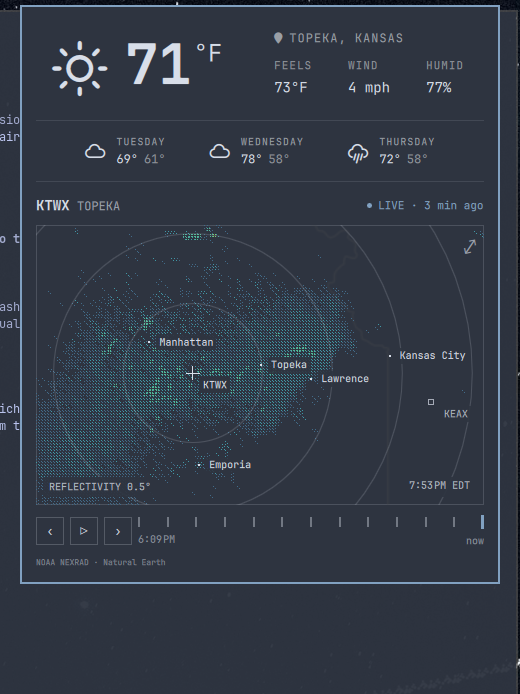
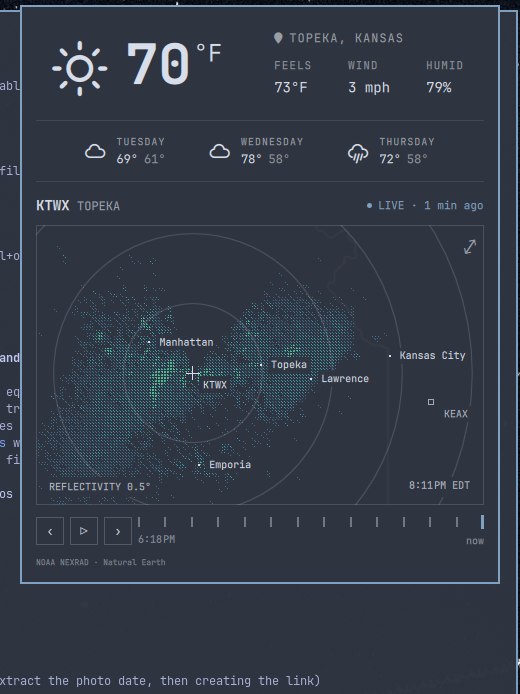
Two-way location sync between weather and radar; privacy-safe Topeka preview

diff --git a/RadarSection.qml b/RadarSection.qml
@@ -1,4 +1,5 @@
 import QtQuick
+import Quickshell
 import "../com.omastorm.radar/ui"
 
 // Skywatch radar section.
@@ -7,6 +8,15 @@ import "../com.omastorm.radar/ui"
 // shared PluginSession singleton so the weather panel and Omastorm share one
 // engine connection, config, and remembered view. See README.md for credits
 // and the required Omastorm install (https://github.com/wesleygrimes/omastorm).
+//
+// Location sync (two-way, weather.json is the shared source of truth):
+//   - Weather -> radar: when the weather location changes, the radar moves
+//     to that place (PluginSession.setPlace).
+//   - Radar -> weather: when the user picks a place on the radar (search,
+//     site picker, "my location"), the chosen place is written back to
+//     weather.json so the forecast follows.
+// A syncingFromWeather guard plus a deferred read (Qt.callLater) prevent echo
+// loops and the transient where setPlace updates placeName before center.
 
 Item {
   id: root
@@ -15,6 +25,49 @@ Item {
 
   width: parent ? parent.width : 0
   implicitHeight: radar.implicitHeight
+
+  property bool syncingFromWeather: false
+
+  // ---- weather -> radar ---------------------------------------------------
+  Connections {
+    target: PluginSession.config
+    function onLocationChanged() {
+      if (root.syncingFromWeather) return
+      var loc = PluginSession.config.location
+      if (!loc || !PluginSession.initialized || !PluginSession.hasView) return
+      // Already centered there? Don't fight panning.
+      if (Math.abs(PluginSession.centerLat - loc.lat) < 1e-6
+          && Math.abs(PluginSession.centerLon - loc.lon) < 1e-6) return
+      root.syncingFromWeather = true
+      PluginSession.setPlace(loc.lat, loc.lon, loc.name || "")
+      root.syncingFromWeather = false
+    }
+  }
+
+  // ---- radar -> weather ---------------------------------------------------
+  // placeName only changes on an explicit pick (search, site picker, locate);
+  // panning updates center/span without touching placeName, so it stays out.
+  // setPlace sets placeName before center, so read the center on the next
+  // tick after the change settles.
+  Connections {
+    target: PluginSession
+    function onPlaceNameChanged() {
+      if (root.syncingFromWeather) return
+      Qt.callLater(root.writeBackToWeather)
+    }
+  }
+
+  function writeBackToWeather() {
+    var name = PluginSession.placeName
+    if (!name || !PluginSession.hasView) return
+    var lat = PluginSession.centerLat
+    var lon = PluginSession.centerLon
+    if (!isFinite(lat) || !isFinite(lon)) return
+    // Already the weather location? Nothing to write back.
+    var wl = PluginSession.config.location
+    if (wl && Math.abs(wl.lat - lat) < 1e-6 && Math.abs(wl.lon - lon) < 1e-6) return
+    Quickshell.execDetached(["omarchy-weather-location", "--set", name, String(lat) + "," + String(lon)])
+  }
 
   Popover {
     id: radar

diff --git a/README.md b/README.md
@@ -41,6 +41,19 @@ The Omastorm engine binary downloads itself on first radar open (see the
 - Refresh interval configurable (default 15 min) via the weather widget
   settings; middle-click refreshes now
 
+### Location sync
+
+The weather panel and the radar share one location (`weather.json`), so
+changing it in either surface updates both:
+
+- **Weather → radar** — search a new city in the weather panel and the radar
+  re-centers on it.
+- **Radar → weather** — pick a place on the radar (search, site picker, or
+  "my location") and the forecast follows.
+
+Panning the radar is navigation, not a location change, so it never rewrites
+your weather location.
+
 ### Radar
 
 - Live interactive radar (drag to pan, scroll to zoom) rendered by Omastorm
